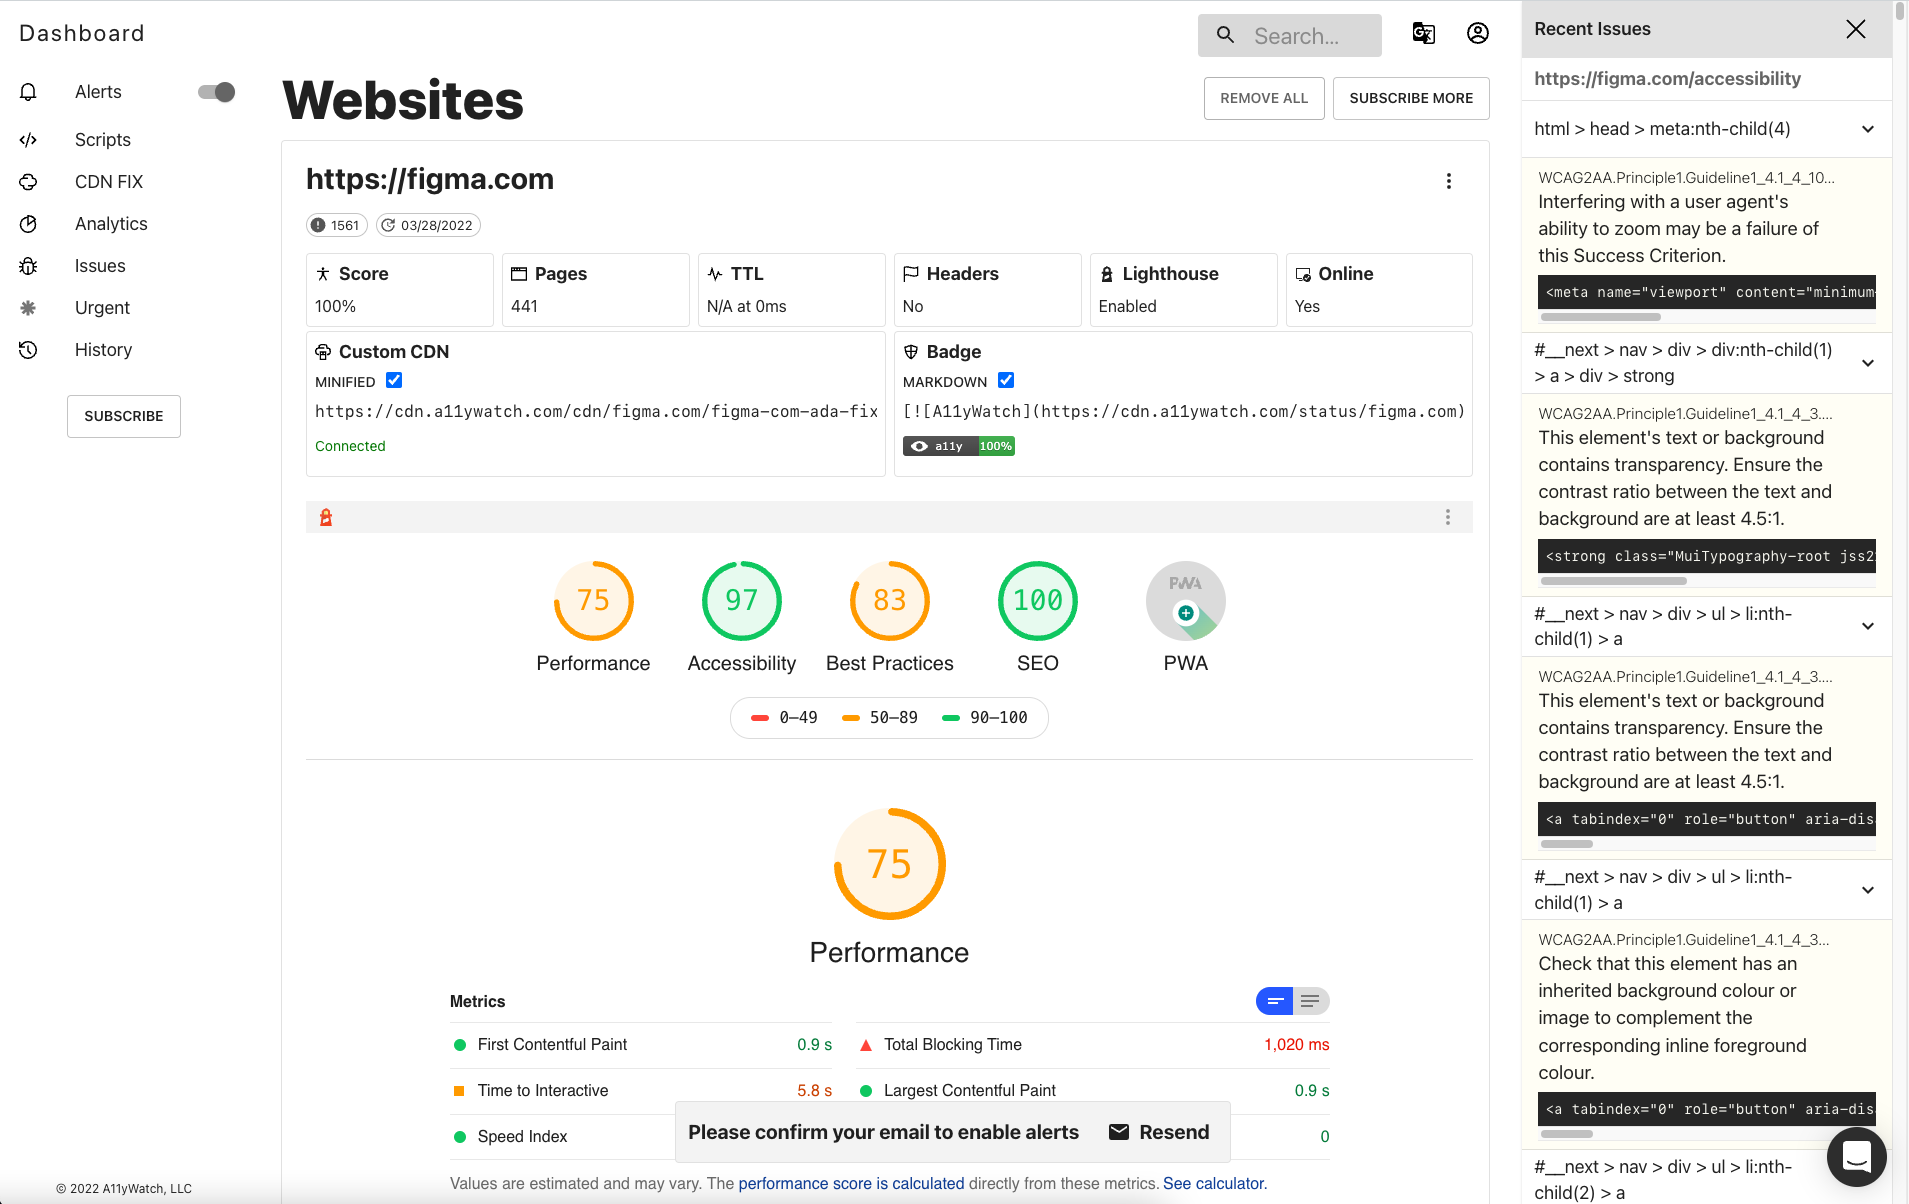
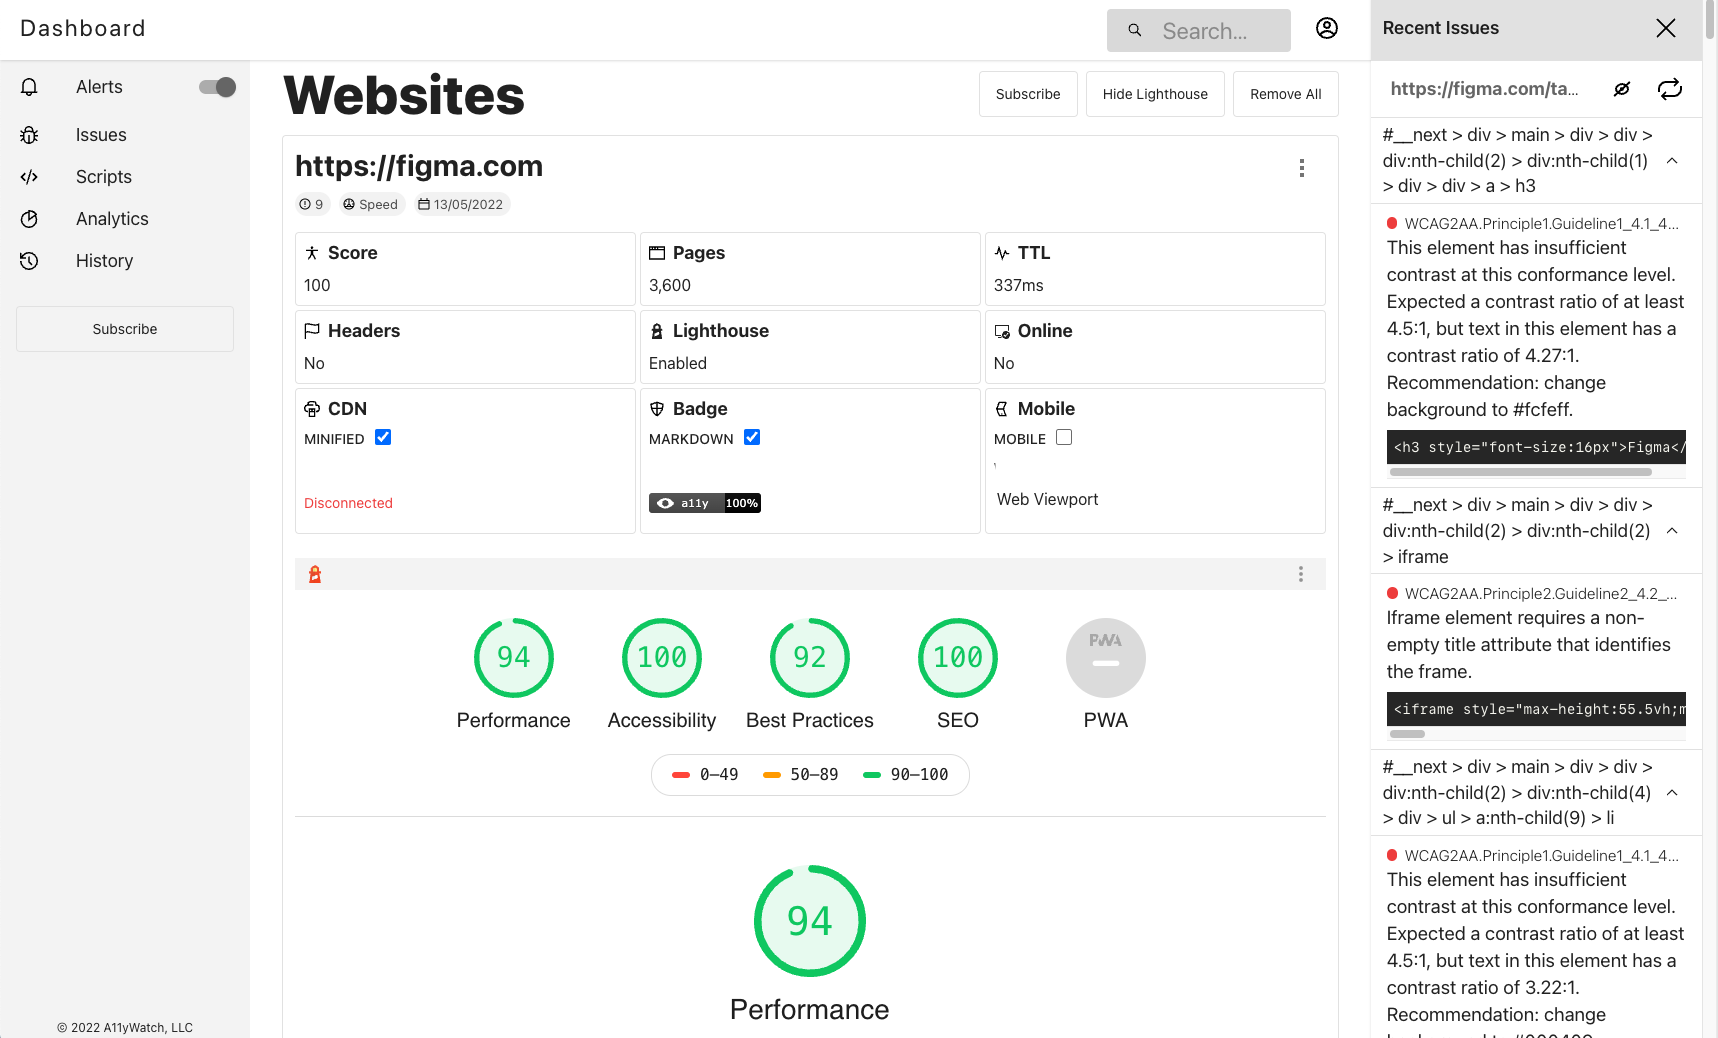
chore(styles): fix mobile website dashboard grids

diff --git a/src/components/general/cells/website-cell-dashboard.tsx b/src/components/general/cells/website-cell-dashboard.tsx
@@ -24,7 +24,7 @@ import {
 import { MobileBox } from './blocks/mobile'
 
 const styles = {
-  title: 'md:text-3xl font-bold truncate',
+  title: 'text-xl md:text-3xl font-bold truncate',
   spacing: 'py-2',
   row: 'flex flex-1',
   metaBlock: 'px-2 py-1 border',
@@ -114,8 +114,8 @@ export function WebsiteCellDashboardComponent({
   const linkUrl = useMemo(() => `/website-details?url=${encodeURI(url)}`, [url])
 
   return (
-    <li className={`border px-3 py-2 rounded overflow-hidden`}>
-      <div className='flex space-x-2'>
+    <li className={`border px-3 pt-2 rounded overflow-hidden`}>
+      <div className='flex space-x-2 place-items-center'>
         <div className={`flex-1`}>
           <Link
             title={`view in sandbox ${url}`}
@@ -156,20 +156,21 @@ export function WebsiteCellDashboardComponent({
 
       <div className={styles.spacing} />
 
-      <div className={[styles.row, 'flex-wrap gap-x-1 gap-y-1'].join(' ')}>
-        <AccessibilityBox
-          adaScore={adaScore}
-          adaScoreAverage={adaScoreAverage}
-        />
-        <PagesBox count={subDomains?.length} />
-        <LoadTimeBox
-          durationFormated={pageLoadTime?.durationFormated}
-          duration={pageLoadTime?.duration}
-        />
-        <HeadersBox pageHeaders={pageHeaders} />
-        <LighthouseBox pageInsights={pageInsights} />
-        <OnlineBox online={online} />
-        <div className='w-full flex space-x-1'>
+      <div className='space-y-1'>
+        <div className='grid xm:grid-cols-1 gap-1 sm:grid-cols-3'>
+          <AccessibilityBox
+            adaScore={adaScore}
+            adaScoreAverage={adaScoreAverage}
+          />
+          <PagesBox count={subDomains?.length} />
+          <LoadTimeBox duration={pageLoadTime?.duration} />
+        </div>
+        <div className='grid grid-cols-1 gap-1 sm:grid-cols-3'>
+          <HeadersBox pageHeaders={pageHeaders} />
+          <LighthouseBox pageInsights={pageInsights} />
+          <OnlineBox online={online} />
+        </div>
+        <div className='grid grid-cols-1 gap-1 sm:grid-cols-3'>
           <CustomCDNBox
             cdnUrl={cdnUrl}
             cdnUrlMinifed={cdnUrlMinifed}

diff --git a/src/configs/page-configs/price-config.ts b/src/configs/page-configs/price-config.ts
@@ -6,11 +6,12 @@ const VISUAL_PLAYGROUND = 'Visual website playground.'
 const plans = [
   {
     title: 'Free',
+    subTitle: 'Perfect for small hobby projects & websites.',
     details: [
       'Monitor 1 website.',
       'Daily email reports.',
       '2 site-wide scans a day.',
-      'Root page checked a day.',
+      'Root page checked daily.',
       VISUAL_PLAYGROUND,
       '3 private API request a day.',
       'Lighthouse on root page.',
@@ -21,11 +22,12 @@ const plans = [
   },
   {
     title: 'Basic',
+    subTitle: 'Great for production grade websites & pages.',
     details: [
       'Monitor up to 4 websites.',
       'Daily email reports.',
       '10 site-wide scans a day.',
-      'All pages checked frequently.',
+      'All pages checked daily.',
       TRUSTED_CDN,
       VISUAL_PLAYGROUND,
       'Custom editable scripts.',
@@ -38,11 +40,12 @@ const plans = [
   },
   {
     title: 'Premium',
+    subTitle: 'Large workloads for websites and subdomains.',
     details: [
       'Monitor up to 10 websites.',
       'Daily email reports.',
       '100 site-wide scans a day.',
-      'All pages checked often.',
+      'All pages checked frequently.',
       TRUSTED_CDN,
       VISUAL_PLAYGROUND,
       'Custom editable scripts.',
@@ -55,16 +58,17 @@ const plans = [
   },
   {
     title: 'Enterprise',
+    subTitle: 'Custom workloads and integrations built for you.',
     details: [
-      'Monitor unlimited websites.',
+      'Custom websites monitoring limit.',
       'Daily email reports.',
-      '1k+ site-wide scans a day.',
+      'Custom site-wide scans limit.',
       TRUSTED_CDN,
       VISUAL_PLAYGROUND,
-      'Custom editable scripts.',
+      'Custom contracts & invoicing.',
       'Custom API usage limits.',
-      'Lighthouse on all pages',
-      'Enterprise support.',
+      'Lighthouse on all pages.',
+      '24×7×365 premium enterprise support.',
       'Code audits & professional services.',
     ],
     cost: 'Contact Us',

diff --git a/src/components/marketing/marketing-product-intro.tsx b/src/components/marketing/marketing-product-intro.tsx
@@ -5,9 +5,11 @@ export function MarketingProductIntro() {
   return (
     <section id='app-section' className='overflow-visible pb-20'>
       <div>
-        <h3 className='sr-only'>Multiple tools for a11y improvement</h3>
+        <h3 className='sr-only'>
+          Multiple tools for web accessibility improvement
+        </h3>
         <div className={'flex flex-nowrap relative md:left-0 left-20'}>
-          <div className='flex-1 border rounded shadow relative -left-40'>
+          <div className='flex-1 rounded border relative -left-40 overflow-hidden'>
             <Image
               height={500}
               width={700}
@@ -16,13 +18,13 @@ export function MarketingProductIntro() {
               layout={'responsive'}
             />
           </div>
-          <div className='flex-1 border rounded shadow relative right-32'>
+          <div className='flex-1 rounded border relative right-32 overflow-hidden'>
             <Image
               height={500}
               width={700}
               src={'/img/marketing_dashboard.png'}
               alt={
-                'dashboard for accessibility insights example using figma.com'
+                'dashboard for accessibility insights with example using figma.com'
               }
               layout={'responsive'}
             />

diff --git a/src/components/general/price.tsx b/src/components/general/price.tsx
@@ -168,7 +168,7 @@ function PriceWrapper({
         </button>
       </div>
       <div className={`grid gap-2 grid-cols-1 lg:grid-cols-2 ${xlColumns}`}>
-        {plans.map(({ title, details, cost, costYearly }: any) => {
+        {plans.map(({ title, details, cost, costYearly, subTitle }: any) => {
           const clickEvent =
             title === 'Enterprise' && !navigate ? openMail : onClick
           const onPriceClick = clickEvent ? () => clickEvent(title) : undefined
@@ -205,6 +205,9 @@ function PriceWrapper({
                         </span>
                       ) : null}
                     </SubHeading>
+                    <div className='py-2 max-w-[350px] lg:max-w-[380px]'>
+                      <p className='text-lg'>{subTitle}</p>
+                    </div>
                   </div>
 
                   <ul className='px-4 space-y-1 py-4'>

diff --git a/src/components/general/form-dialog.tsx b/src/components/general/form-dialog.tsx
@@ -210,7 +210,9 @@ export function FormDialogWrapper({
           </IconButton>
         </div>
         <form onSubmit={submit} noValidate>
-          <DialogContent className={classes.dialogPadding}>
+          <DialogContent
+            className={`${classes.dialogPadding} overflow-hidden relative`}
+          >
             <DialogContentText>
               To add a website to your watchlist, please enter the website url
               below.
@@ -232,7 +234,7 @@ export function FormDialogWrapper({
               type='url'
               required
             />
-            <div className={classes.row}>
+            <div className={`${classes.row} overflow-x-auto`}>
               <Tooltip title={'Use http or https for protocol on scans'}>
                 <FormControlLabel
                   classes={formLabelStyles}

diff --git a/src/components/general/auth-menu.tsx b/src/components/general/auth-menu.tsx
@@ -40,12 +40,6 @@ function AuthMenuComponent({
       setIssueFeedContent(null, false)
 
       try {
-        await logoutMutation()
-      } catch (e) {
-        console.error(e)
-      }
-
-      try {
         await client?.clearStore()
       } catch (e) {
         console.error(e)
@@ -58,7 +52,13 @@ function AuthMenuComponent({
       }
 
       try {
-        await router.push('/', '/')
+        await logoutMutation()
+      } catch (e) {
+        console.error(e)
+      }
+
+      try {
+        router.reload()
       } catch (e) {
         console.error(e)
       }

diff --git a/src/components/general/cells/blocks/load-time.tsx b/src/components/general/cells/blocks/load-time.tsx
@@ -2,18 +2,10 @@ import React, { memo } from 'react'
 import { InfoBlock } from '../info-block'
 import { GrTime } from 'react-icons/gr'
 
-export const LoadTimeBoxWrapper = ({
-  durationFormated,
-  duration,
-}: {
-  durationFormated?: string
-  duration?: number
-}) => {
+export const LoadTimeBoxWrapper = ({ duration }: { duration?: number }) => {
   return (
     <InfoBlock title={'TTL'} icon={<GrTime />}>
-      <span>
-        {durationFormated || 'N/A'} at {duration ?? 0}ms
-      </span>
+      <span>{duration ?? 0}ms</span>
     </InfoBlock>
   )
 }

diff --git a/src/components/general/drawers/drawer.tsx b/src/components/general/drawers/drawer.tsx
@@ -109,7 +109,9 @@ export function DrawerComponent({
       />
       <main className={classes.content}>
         <div className={sidePannelStyles}>
-          <div className={'pr-8 lg:pl-8 md:pl-8'}>{children}</div>
+          <div className={'pr-2 md:pr-4 md:pl-8 lg:pl-8 lg:pr-8'}>
+            {children}
+          </div>
         </div>
         <ConfirmEmail
           sendEmail={sendConfirmEmail}

diff --git a/src/components/general/styles/form-dialog.ts b/src/components/general/styles/form-dialog.ts
@@ -7,8 +7,8 @@ export const formDialogStyles = makeStyles((theme: MergedTheme) => ({
     flex: 1,
     display: 'flex',
     alignItems: 'center',
-    marginTop: theme.spacing(1),
-    marginBottom: theme.spacing(1) - 4.2,
+    paddingTop: theme.spacing(1),
+    paddingBottom: theme.spacing(1) - 4.2,
   },
   addButton: {
     marginLeft: theme.spacing(1),

diff --git a/src/components/general/cells/info-block.tsx b/src/components/general/cells/info-block.tsx
@@ -16,9 +16,7 @@ export const InfoBlock: FC<{
   return (
     <div
       className={`${styles.infoContainer}${
-        icon
-          ? ` ${styles.infoBorder} min-w-[120px] md:min-w-[172px] lg:min-w-[225px] xl:min-w-[320px] rounded`
-          : ''
+        icon ? ` ${styles.infoBorder} rounded` : ''
       }`}
     >
       <div className={styles.row}>

diff --git a/src/components/general/cells/render/website-secondary.tsx b/src/components/general/cells/render/website-secondary.tsx
@@ -46,7 +46,7 @@ export function WebsiteSecondaryComponent({
   }
 
   return (
-    <div className={'flex space-x-2'}>
+    <div className={'flex gap-x-2 gap-y-1 overflow-x-auto'}>
       {pageIssueCount ? (
         <Tooltip
           title={`${mainIssues} possible issue${
